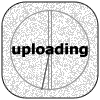
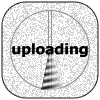
Add paperclip processing

Changed region(s): [[0.42, 0.54, 0.63, 0.9]]

diff --git a/public/javascripts/upload_tracker.js b/public/javascripts/upload_tracker.js
@@ -98,6 +98,7 @@ var UploadTracker = Class.create({
     * + __upload__ - Fires on [[UploadTracker#finishUpload]]
     * + __uploading__ - Fires on [[UploadTracker#startUploading]]
     * + __finished__ - Fires on [[UploadTracker#startUploading]] when no uploads remain
+    * + __checkForm__ - Fires before queing a submission; if event.stop() is called, doesn't queue the form.
     * + __queued__ - Fires on [[UploadTracker#queueUploading]]
     **/
   observe: function(event_name, callback) {
@@ -144,11 +145,16 @@ var UploadTracker = Class.create({
     if (callbacks) {
       callbacks.each(function(callback) { callback(evt); });
     }
+    return evt;
   },
-  finishUpload: function(identity, success, response) {
+  finishUpload: function(identity, success, response, image_thumb) {
     this.running = false;
-    this.fire('upload', new UploadTracker.Event('upload', { 'success': success, 'identity': identity, 'response': response }));
+    this.fire('upload', new UploadTracker.Event('upload', { 'success': success, 'form': $(identity), 'response': response }));
     this.startUploading(); // Call the next upload
+  },
+  createDoneWidget: function(image_thumb) {
+    this.forms.push(image_thumb);
+    this.forms.showUploaded(image_thumb, image_thumb);
   },
   startUploading: function() {
     if (this.running) { return; }
@@ -161,7 +167,7 @@ var UploadTracker = Class.create({
       var su_bind = this.forms.showUploading.bind(this.forms);
       su_bind(to_upload);
       to_upload.submit();
-      this.fire('uploading', new UploadTracker.Event('uploading', { 'form': a_form }));
+      this.fire('uploading', new UploadTracker.Event('uploading', { 'form': to_upload }));
     } else {
       this.fire('emptied', new UploadTracker.Event('finished', { 'uploaded': this.forms.size() }));
     }
@@ -169,6 +175,9 @@ var UploadTracker = Class.create({
   queueUploading: function(evt) {
     evt.stop();
     var a_form = evt.findElement("form");
+    var check_event = this.fire('checkForm', new UploadTracker.Event('checkForm', { 'form': a_form }));
+    if (check_event.stopped()) { return false; }
+
     var duplicate = a_form.outerHTML || new XMLSerializer().serializeToString(a_form);
     a_form.insert(new Element("input", { "name": "identity", "type": "hidden", "value": a_form.identify() }));
     a_form.insert({ after: duplicate });
@@ -184,6 +193,13 @@ UploadTracker.Event = Class.create(Hash, {
     $super();
     this.name = event_name;
     this.update(extras)
+    this._stopped = false;
+  },
+  stop: function() {
+    this._stopped = true;
+  },
+  stopped: function() {
+    return this._stopped;
   }
 });
 UploadTracker.FormWidgets = Class.create({
@@ -193,20 +209,20 @@ UploadTracker.FormWidgets = Class.create({
     this.forms = []; // [ a_form, a_widget, bool_done ]
   },
   showUploading: function(a_form) {
-    var val = a_form.getInputs('text', 'name').first().getValue();
+    var val = a_form.getInputs('file').first().getValue();
     var activeForm = this.forms.find(function(frm) { return frm[0] == a_form });
     activeForm[2] = 1;
     activeForm[1].startAnimation();
     var oldFinishUpload = activeForm[0].finishUpload;
-    activeForm[0].finishUpload = function(identity, success, response) {
+    activeForm[0].finishUpload = function(identity, success, response, image_thumb) {
       var frm = $(identity);
-      if (frm) { this.showUploaded(frm); }
-      oldFinishUpload(identity, success, response);
+      if (frm && success) { this.showUploaded(frm, image_thumb); }
+      oldFinishUpload(identity, success, response, image_thumb);
     }.bind(this);
   },
-  showUploaded: function(a_form) {
+  showUploaded: function(a_form, image_thumb) {
     var activeForm = this.forms.find(function(frm) { return frm[0] == a_form });
-    activeForm[1].finishAnimation("/dwp/images/rails.png");
+    activeForm[1].finishAnimation(image_thumb);
     activeForm[2] = 2;
   },
   nextInQueue: function() {
@@ -240,7 +256,7 @@ UploadTracker.FormWidgets.Ticker = Class.create({
 
 
     var finish_mask_img = new Element('img', { 'src': end_image, 'class': 'ticker' });
-    this.uploaded_div = new Element('div', { 'class': 'ticker' });
+    this.uploaded_div = new Element('div', { 'class': 'ticker imagebox' });
     this.uploaded_div.insert(finish_mask_img);
     this.uploaded_div.hide();
 
@@ -278,7 +294,10 @@ UploadTracker.FormWidgets.Ticker = Class.create({
 
     this.stopAnimation();
     this.img_element.remove();
-    this.images.each(function(img) { img.remove(); });
+    this.images.each(function(img) { if (img.parentNode) { img.remove(); } });
+    if (!this.uploaded_div.parentNode) {
+      this.span_element.insert(this.uploaded_div);
+    }
     this.uploaded_div.show();
   }
 });

diff --git a/public/stylesheets/main.css b/public/stylesheets/main.css
@@ -4,3 +4,4 @@ FORM > UL > LI { list-style: none; }
 FORM > UL > LI > LABEL { width: 10%; text-align: right; display: block; float: left; padding-right: 0.5em; }
 
 DIV.ticker { height: 100px; }
+DIV.ticker.imagebox { height: 100px; width: 100px; float: left }

diff --git a/db/migrate/20101012235116_create_users.rb b/db/migrate/20101012235116_create_users.rb
@@ -1,8 +1,22 @@
 class CreateUsers < ActiveRecord::Migration
   def self.up
     create_table :users do |t|
-      t.string :username
-      t.string :password
+      t.string :login
+      t.string    :email,               :null => false                # optional, you can use login instead, or both
+      t.string    :crypted_password,    :null => false                # optional, see below
+      t.string    :password_salt,       :null => false                # optional, but highly recommended
+      t.string    :persistence_token,   :null => false                # required
+      t.string    :single_access_token, :null => false                # optional, see Authlogic::Session::Params
+      t.string    :perishable_token,    :null => false                # optional, see Authlogic::Session::Perishability
+
+      # Magic columns, just like ActiveRecord's created_at and updated_at. These are automatically maintained by Authlogic if they are present.
+      t.integer   :login_count,         :null => false, :default => 0 # optional, see Authlogic::Session::MagicColumns
+      t.integer   :failed_login_count,  :null => false, :default => 0 # optional, see Authlogic::Session::MagicColumns
+      t.datetime  :last_request_at                                    # optional, see Authlogic::Session::MagicColumns
+      t.datetime  :current_login_at                                   # optional, see Authlogic::Session::MagicColumns
+      t.datetime  :last_login_at                                      # optional, see Authlogic::Session::MagicColumns
+      t.string    :current_login_ip                                   # optional, see Authlogic::Session::MagicColumns
+      t.string    :last_login_ip                                      # optional, see Authlogic::Session::MagicColumns
 
       t.timestamps
     end

diff --git a/db/schema.rb b/db/schema.rb
@@ -10,7 +10,15 @@
 #
 # It's strongly recommended to check this file into your version control system.
 
-ActiveRecord::Schema.define(:version => 20101019180751) do
+ActiveRecord::Schema.define(:version => 20101020230001) do
+
+  create_table "photosets", :force => true do |t|
+    t.integer  "user_id"
+    t.string   "name"
+    t.string   "description"
+    t.datetime "created_at"
+    t.datetime "updated_at"
+  end
 
   create_table "pictures", :force => true do |t|
     t.integer  "user_id"
@@ -21,11 +29,24 @@ ActiveRecord::Schema.define(:version => 20101019180751) do
     t.string   "image_content_type"
     t.integer  "image_file_size"
     t.datetime "image_updated_at"
+    t.integer  "photosets_id"
   end
 
   create_table "users", :force => true do |t|
-    t.string   "username"
-    t.string   "password"
+    t.string   "login"
+    t.string   "email",                              :null => false
+    t.string   "crypted_password",                   :null => false
+    t.string   "password_salt",                      :null => false
+    t.string   "persistence_token",                  :null => false
+    t.string   "single_access_token",                :null => false
+    t.string   "perishable_token",                   :null => false
+    t.integer  "login_count",         :default => 0, :null => false
+    t.integer  "failed_login_count",  :default => 0, :null => false
+    t.datetime "last_request_at"
+    t.datetime "current_login_at"
+    t.datetime "last_login_at"
+    t.string   "current_login_ip"
+    t.string   "last_login_ip"
     t.datetime "created_at"
     t.datetime "updated_at"
   end

diff --git a/app/controllers/image_controller.rb b/app/controllers/image_controller.rb
@@ -1,10 +1,45 @@
 class ImageController < ApplicationController
+  before_filter :require_user
   def upload
+    begin
+      @photoset = Photoset.find_by_id_and_user_id(params[:photoset], current_user.id)
+    rescue
+      flash[:warning] = "Couldn't find photoset by ID #{params[:photoset]} for user #{current_user.id}"
+      redirect_to user_home_url
+    end
+    unless @photoset then
+      redirect_to user_home_url
+      return
+    end
   end
   def handle_upload
+    begin
+      @photoset = Photoset.find_by_id_and_user_id(params[:photoset], current_user.id)
+    rescue
+      @response = "Couldn't find photoset by ID #{params[:photoset]} for user #{current_user.id}"
+    end
+    unless @photoset then
+      @response = "Couldn't find photoset by ID #{params[:photoset]} for user #{current_user.id}"
+    end
+
+    if @photoset then
+      @picture = Picture.new(params[:picture])
+      @picture.name = @picture.image_file_name
+      @picture.user = current_user
+      @picture.photoset = @photoset
+      if @picture.save then
+        @success = true
+        @response = ""
+        @image_thumb = @picture.image.url(:small_cropped)
+      else
+        @success = false
+        @response = "Failed to upload #{@picture.name}"
+      end
+    else
+      @success = false
+    end
+
     @identity = params[:identity]
-    @success = true;
-    @response = "Done."
     render :layout => false
   end
 

diff --git a/app/models/picture.rb b/app/models/picture.rb
@@ -1,7 +1,18 @@
+require 'lib/paperclip_processors/sift'
+require 'lib/paperclip_processors/thumbnail_with_skip'
 class Picture < ActiveRecord::Base
   belongs_to :user
+  belongs_to :photoset
   has_attached_file :image,
-    :styles => { :medium => [ "300x200", :png ], :small_cropped => [ "100x100#", :png ] },
+    :styles => {
+      :medium => { :geometry => "300x200", :format => :png },
+      :small_cropped => { :geometry => "100x100#", :format => :png },
+      # TODO: Bacgkround sifting
+      # :sifted => { :sift_bin => "/home/yostinso/bundle_test/bundler/bundler-v0.4-source/bin/sift", :no_thumbnail => true, :whiny => true }
+    },
     :default_style => :medium,
-    :convert_options => { :all => "-strip" }
+    :convert_options => { :all => "-strip" },
+    :url => "/dwp/system/:attachment/:id/:style/:filename",
+    :path => ":rails_root/public/system/:attachment/:id/:style/:filename",
+    :processors => [ :thumbnail_with_skip, :sift ]
 end

diff --git a/app/controllers/application_controller.rb b/app/controllers/application_controller.rb
@@ -1,3 +1,34 @@
 class ApplicationController < ActionController::Base
   protect_from_forgery
+
+  private
+  def current_user_session
+    return @current_user_session if defined?(@current_user_session)
+    @current_user_session = UserSession.find
+  end
+  def current_user
+    return @current_user if defined?(@current_user)
+    @current_user = current_user_session && current_user_session.record
+  end
+  def require_user
+    unless current_user
+      store_location_for_login
+      redirect_to new_user_session_url
+      return false
+    end
+  end
+  def require_no_user
+    if current_user
+      store_location_for_login
+      redirect_to_back_or_default welcome_index
+      return false
+    end
+  end
+  def store_location_for_login
+    session[:return_to] = request.request_uri
+  end
+  def redirect_to_back_or_default(default)
+    redirect_to(session[:return_to] || default)
+    session[:return_to] = nil
+  end
 end

diff --git a/config/routes.rb b/config/routes.rb
@@ -1,8 +1,20 @@
 Dwp::Application.routes.draw do
+  get "photoset/new"
+
+  post "photoset/create"
+
+  get "photoset/destroy"
+
+  get "user/index"
+
+  get "user_sessions/new", :as => "new_user_session"
+  get "user_sessions/create"
+  post "user_sessions/create", :as => "user_session"
   get "image/upload", :as => "upload_picture"
   post "image/handle_upload"
+  get "user/index", :as => "user_home"
 
-  get "welcome/index"
+  get "welcome/index", :as => "welcome"
 
   # The priority is based upon order of creation:
   # first created -> highest priority.

diff --git a/app/models/user.rb b/app/models/user.rb
@@ -1,2 +1,6 @@
 class User < ActiveRecord::Base
+  has_many :photos
+  has_many :photosets
+
+  acts_as_authentic
 end
